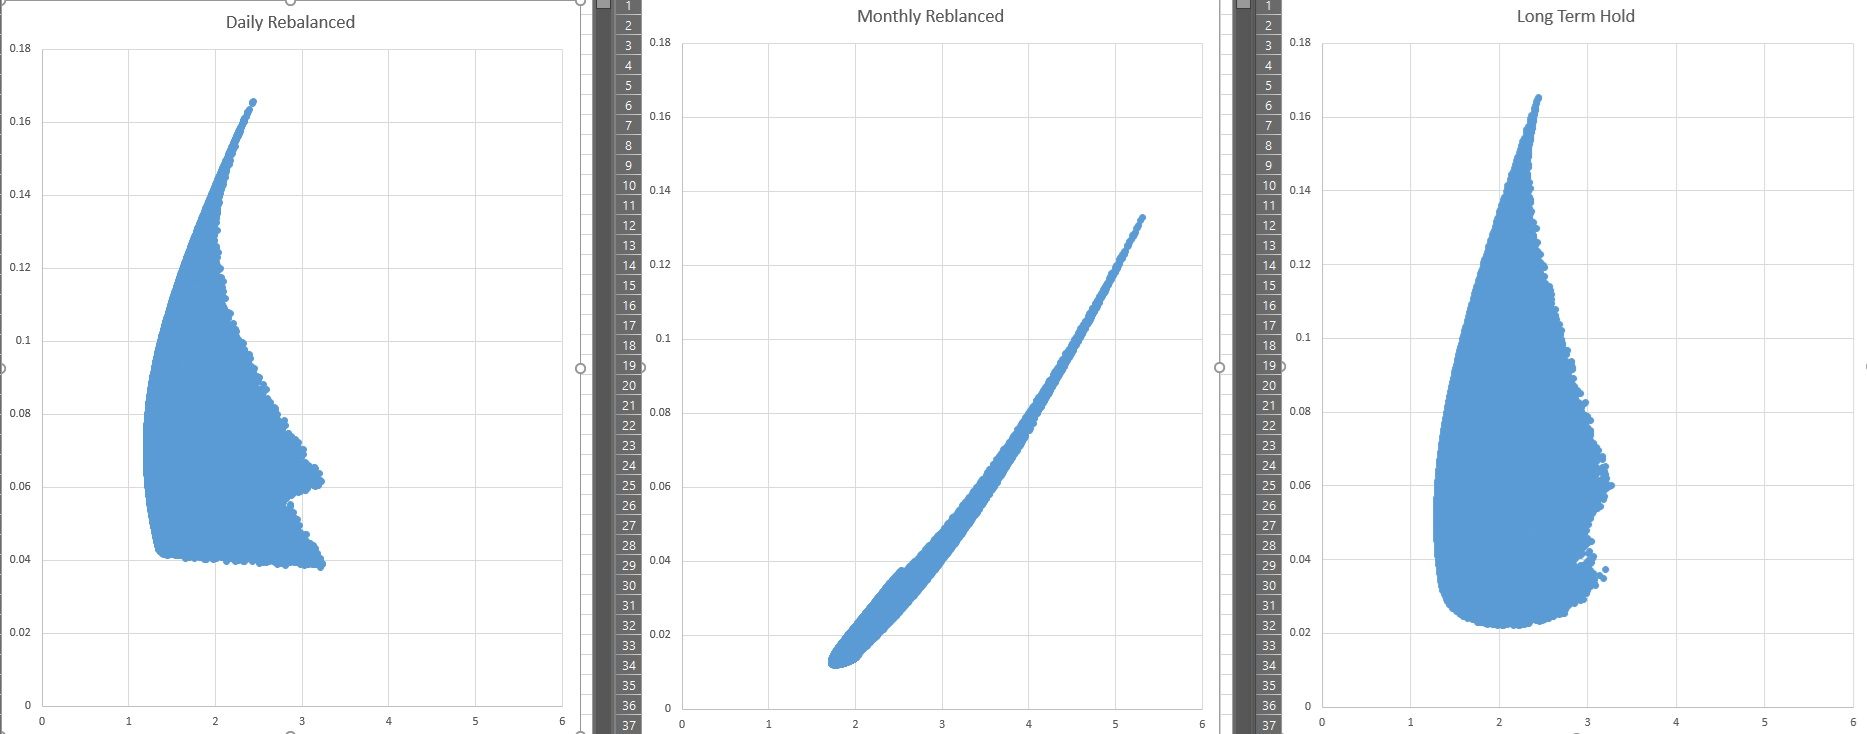
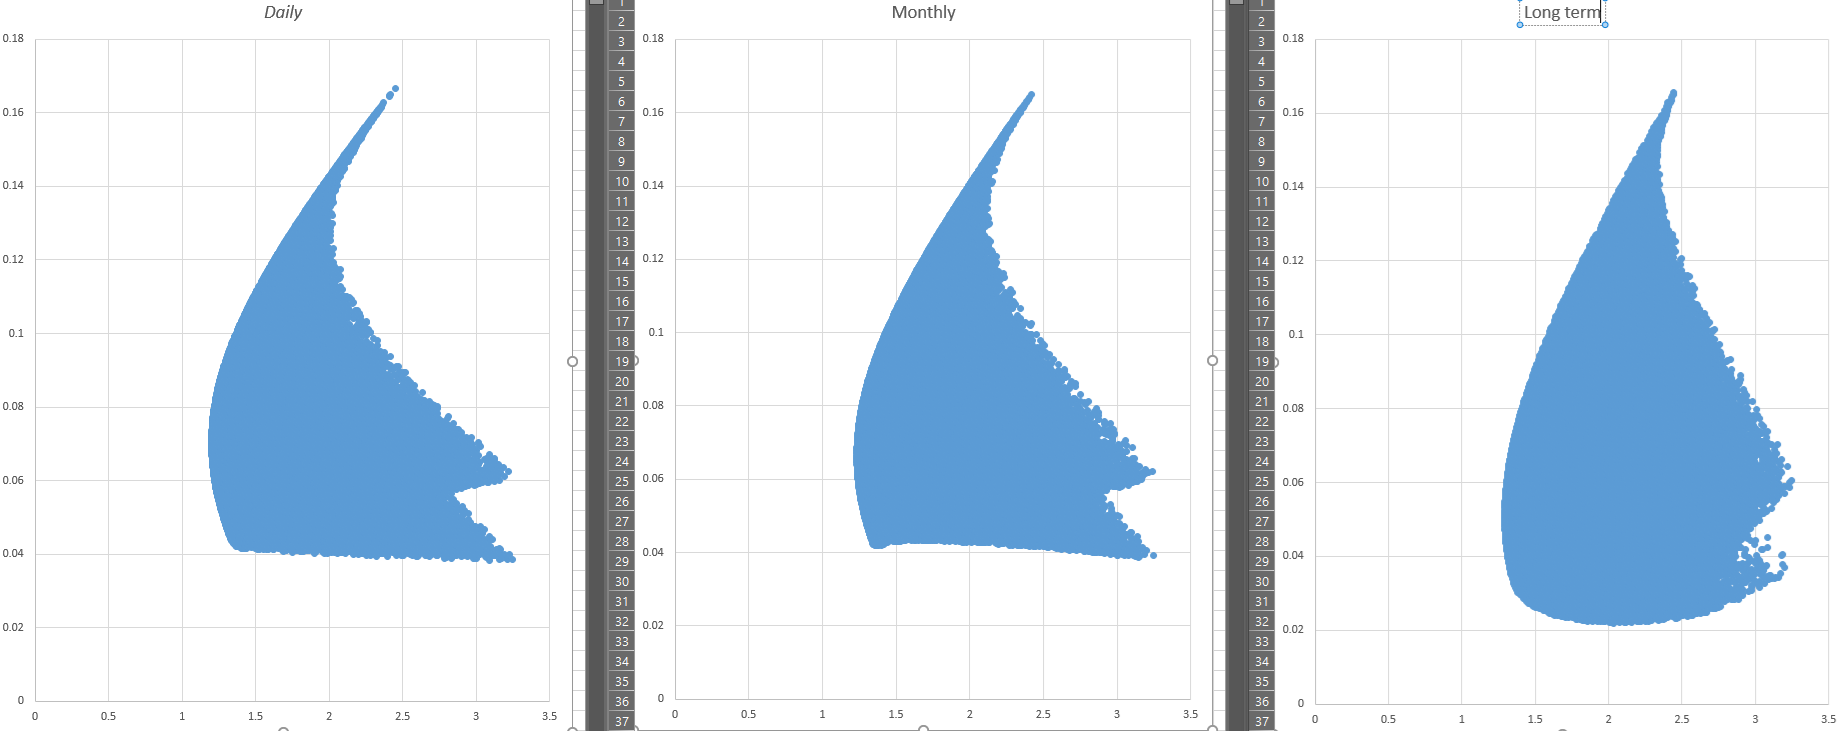
correcting rebalancing

diff --git a/cpp_efficient_frontier/program.hpp b/cpp_efficient_frontier/program.hpp
@@ -91,31 +91,6 @@ void match_security_length(/*I*/ const data::Data& security_data,
 	}
 }
 
-void compound_returns_to_values(/*I*/ const std::vector<security_column>& processed,
-				/*O*/ std::vector<std::vector<double>>& rebalanced,
-				/*O*/ std::vector<std::vector<double>>& daily,
-				/*O*/ std::vector<std::vector<double>>& long_term){
-
-	std::vector<std::vector<double>> returns = {};
-	std::vector<std::vector<double>> surpluses = {};
-
-	for (const auto& security: processed){
-		returns.emplace_back(security.security_returns);
-	}
-
-	for (const auto& ret: returns){
-		std::vector<double> temp_rebalanced;
-		std::vector<double> temp_longterm;
-
-		surpluses.emplace_back(calculations::Calculations::rebalance_compound(ret, 20, temp_rebalanced));
-		rebalanced.emplace_back(temp_rebalanced);
-
-		temp_longterm = calculations::Calculations::value_series(ret);
-		long_term.emplace_back(temp_longterm);
-	}
-	daily = returns;
-}
-
 /*2*/
 std::vector<double> make_random_weights(size_t number_of_securities){
 	std::random_device rd;
@@ -163,23 +138,19 @@ portfolio_data get_portfolio_stats(std::vector<double> portfolio_returns, double
 }
 
 /*1*/
-void simulate_by_value(/*I*/ const std::vector<std::vector<double>>& compounded_values,
-			/*O*/ std::vector<portfolio_data>& sim_results,
-			/*I*/ const double risk_free_rate=0.01){
-	std::vector<double> mixed_returns;
-	size_t number_of_securities = compounded_values.size();
-	auto weights = make_random_weights(number_of_securities);
-	
-	mix_securities(compounded_values, weights, mixed_returns);
-	
-	auto pf_data = get_portfolio_stats(mixed_returns, risk_free_rate);
+std::vector<std::vector<double>> get_returns(/*I*/ const std::vector<security_column>& processed){
 
-	pf_data.weights = weights;
-	sim_results.emplace_back(pf_data);
+	std::vector<std::vector<double>> returns = {};
+
+	for (const auto& security: processed){
+		returns.emplace_back(security.security_returns);
+	}
+	
+	return returns;
 }
 
 /*1*/
-void simulate_by_returns(/*I*/ const std::vector<std::vector<double>>& returns,
+void simulate_daily_rebalance(/*I*/ const std::vector<std::vector<double>>& returns,
 			/*O*/ std::vector<portfolio_data>& sim_results,
 			/*I*/ const double risk_free_rate=0.01){
 	std::vector<double> mixed_returns;
@@ -193,6 +164,63 @@ void simulate_by_returns(/*I*/ const std::vector<std::vector<double>>& returns,
 
 	pf_data.weights = weights;
 	sim_results.emplace_back(pf_data);
+}
+
+/*1*/
+void simulate_monthly_rebalance(/*I*/ const std::vector<std::vector<double>>& returns,
+			/*O*/ std::vector<portfolio_data>& sim_results,
+			/*I*/ const double risk_free_rate=0.01){
+	std::vector<double> mixed_values;
+	std::vector<double> mixed_returns;
+	size_t number_of_securities = returns.size();
+
+	auto weights = make_random_weights(number_of_securities);
+
+	mixed_values = calculations::Calculations::rebalanced_weighted_sum_of_values(returns, weights, 20);
+	mixed_returns = calculations::Calculations::values_to_change(mixed_values);
+
+	auto pf_data = get_portfolio_stats(mixed_returns, risk_free_rate);
+
+	pf_data.weights = weights;
+	sim_results.emplace_back(pf_data);
+}
+
+/*1*/
+void simulate_longterm_hold(/*I*/ const std::vector<std::vector<double>>& returns,
+			/*O*/ std::vector<portfolio_data>& sim_results,
+			/*I*/ const double risk_free_rate=0.01){
+	std::vector<double> mixed_values;
+	std::vector<double> mixed_returns;
+	size_t number_of_securities = returns.size();
+
+	auto weights = make_random_weights(number_of_securities);
+
+	std::vector<std::vector<double>> unmixed_values = {};
+	for (const auto& ret: returns){
+		unmixed_values.emplace_back(calculations::Calculations::value_series(ret));
+	}
+	mixed_values = calculations::Calculations::weighted_sum(unmixed_values, weights);
+	mixed_returns = calculations::Calculations::values_to_change(mixed_values);
+
+	auto pf_data = get_portfolio_stats(mixed_returns, risk_free_rate);
+
+	pf_data.weights = weights;
+	sim_results.emplace_back(pf_data);
+}
+
+/*1*/
+void write_data(/*I*/ const std::string file_name,
+				/*I*/ std::vector<portfolio_data> sim_results){
+	
+	// Write data to TSV file
+	std::ofstream outfile(file_name);
+	if (!outfile) {
+		std::cerr << "Error opening file for writing!" << std::endl;
+		return ;
+	}
+	for (const auto& pf_data : sim_results) {
+		outfile << pf_data.risk << "\t" << pf_data.expected_return << '\t' << '\n';
+	}	
 }
 
 /*1*/
@@ -264,53 +292,31 @@ void get_optimal(/*I*/ const std::vector<portfolio_data>& sim_results,
 	std::cout << std::endl; 
 }
 
-/*1*/
-void write_data(/*I*/ const std::string file_name,
-				/*I*/ std::vector<portfolio_data> sim_results){
-	
-	// Write data to TSV file
-	std::ofstream outfile(file_name);
-	if (!outfile) {
-		std::cerr << "Error opening file for writing!" << std::endl;
-		return ;
-	}
-	for (const auto& pf_data : sim_results) {
-		outfile << pf_data.risk << "\t" << pf_data.expected_return << '\t' << '\n';
-	}	
-}
-
 /*0*/
 void optimize_portfolio(/*I*/ const std::vector<security_column>& selections,
 			/*O*/ portfolio_data (&optimal_mixes)[3]){
 	const size_t num_simulations = 99'999;
+
+	std::vector<portfolio_data> daily_sim_results = {};
 	std::vector<portfolio_data> monthly_sim_results = {};
 	std::vector<portfolio_data> long_term_sim_results = {};
-	std::vector<portfolio_data> daily_sim_results = {};
 
-	std::vector<std::vector<double>> monthly_rebalanced;
-	std::vector<std::vector<double>> daily_rebalanced;
-	std::vector<std::vector<double>> long_term_value;
-
-
-	compound_returns_to_values(selections, 
-				monthly_rebalanced, 
-				daily_rebalanced, 
-				long_term_value);
+	std::vector<std::vector<double>> returns = get_returns(selections);
 
 	DiscountedMeanStrategy discnt_strat(2);
 	calculations::Calculations::set_expected_return_strategy(&discnt_strat);
 	
 	for(int sim_cnt=0; sim_cnt < num_simulations; sim_cnt++){
-		simulate_by_value(monthly_rebalanced, monthly_sim_results);
-		simulate_by_value(long_term_value, long_term_sim_results);
-		simulate_by_returns(daily_rebalanced, daily_sim_results);
+		simulate_daily_rebalance(returns, daily_sim_results);
+		simulate_monthly_rebalance(returns, monthly_sim_results);
+		simulate_longterm_hold(returns, long_term_sim_results);
 		std::cout << sim_cnt+1 << " / " << num_simulations << "\r";
 	}
 
 	std::cout << std::endl;
 
-	write_data("simulation_results_monthly.tsv", monthly_sim_results);
 	write_data("simulation_results_daily.tsv", daily_sim_results);
+	write_data("simulation_results_monthly.tsv", monthly_sim_results);
 	write_data("simulation_results_long_term.tsv", long_term_sim_results);
 	
 	get_optimal(monthly_sim_results, optimal_mixes);

diff --git a/cpp_efficient_frontier/calculations/calculations.cpp b/cpp_efficient_frontier/calculations/calculations.cpp
@@ -111,7 +111,7 @@ namespace calculations {
 		return results;
 	}
 
-	std::vector<double> Calculations::rebalanced_weighted_sum(/*I*/ const std::vector<std::vector<double>>& returns,
+	std::vector<double> Calculations::rebalanced_weighted_sum_of_values(/*I*/ const std::vector<std::vector<double>>& returns,
 								/*I*/ const std::vector<double>& weights,
 								/*I*/ const size_t rebalancing_term){
 		if(weights.empty() || returns.empty()){
@@ -119,8 +119,8 @@ namespace calculations {
 		}
 
 		size_t number_of_securities = returns.size();
-		std::vector<double> results(returns[0].size(), 0);
-		std::vector<std::vector<double>> compounded = {};
+		std::vector<double> result_values = {1};
+		std::vector<std::vector<double>> compounded(weights.size(),std::vector<double>());
 
 		for (int mm=0; mm<weights.size(); mm++){
 			compounded[mm].emplace_back(weights[mm]);
@@ -128,8 +128,8 @@ namespace calculations {
 
 		for(int ii=0; ii<returns[0].size(); ii++){
 			double rebalanced_total = 0;
-			for (int jj=0; jj<returns.size(); jj++){
-				compounded[jj].emplace_back(compounded[jj][ii] * (1+returns[jj][ii]/100.0));
+			for (int jj=0; jj<weights.size(); jj++){
+				compounded[jj].emplace_back(compounded[jj][ii] * (1 + returns[jj][ii]/100.0));
 				rebalanced_total += compounded[jj][ii+1];
 			}
 			if (ii%rebalancing_term==0){
@@ -137,9 +137,9 @@ namespace calculations {
 					compounded[ll][ii+1] = rebalanced_total * weights[ll];
 				}
 			}
-			results.emplace_back(rebalanced_total);
+			result_values.emplace_back(rebalanced_total);
 		}
-		return results;
+		return result_values;
 	}
 
 	std::vector<double> Calculations::aggregate_returns_by_period(/*I*/ const std::vector<double>& trimmed_daily_returns,

diff --git a/cpp_efficient_frontier/calculations/calculations.h b/cpp_efficient_frontier/calculations/calculations.h
@@ -89,10 +89,10 @@ public:
 	 *
 	 * @param returns The vector of vectors representing the returns of different assets over time.
 	 * @param weights The vector of weights assigned to each asset.
-	 * @param rebalancing_term The size of the rebalancing term.
+	 * @param rebalancing_term How often should it be rebalanced.
 	 * @return The rebalanced weighted sum of returns.
 	 */
-	std::vector<double> rebalanced_weighted_sum(/*I*/ const std::vector<std::vector<double>>& returns,
+	static std::vector<double> rebalanced_weighted_sum_of_values(/*I*/ const std::vector<std::vector<double>>& returns,
 								/*I*/ const std::vector<double>& weights,
 								/*I*/ const size_t rebalancing_term);
 
